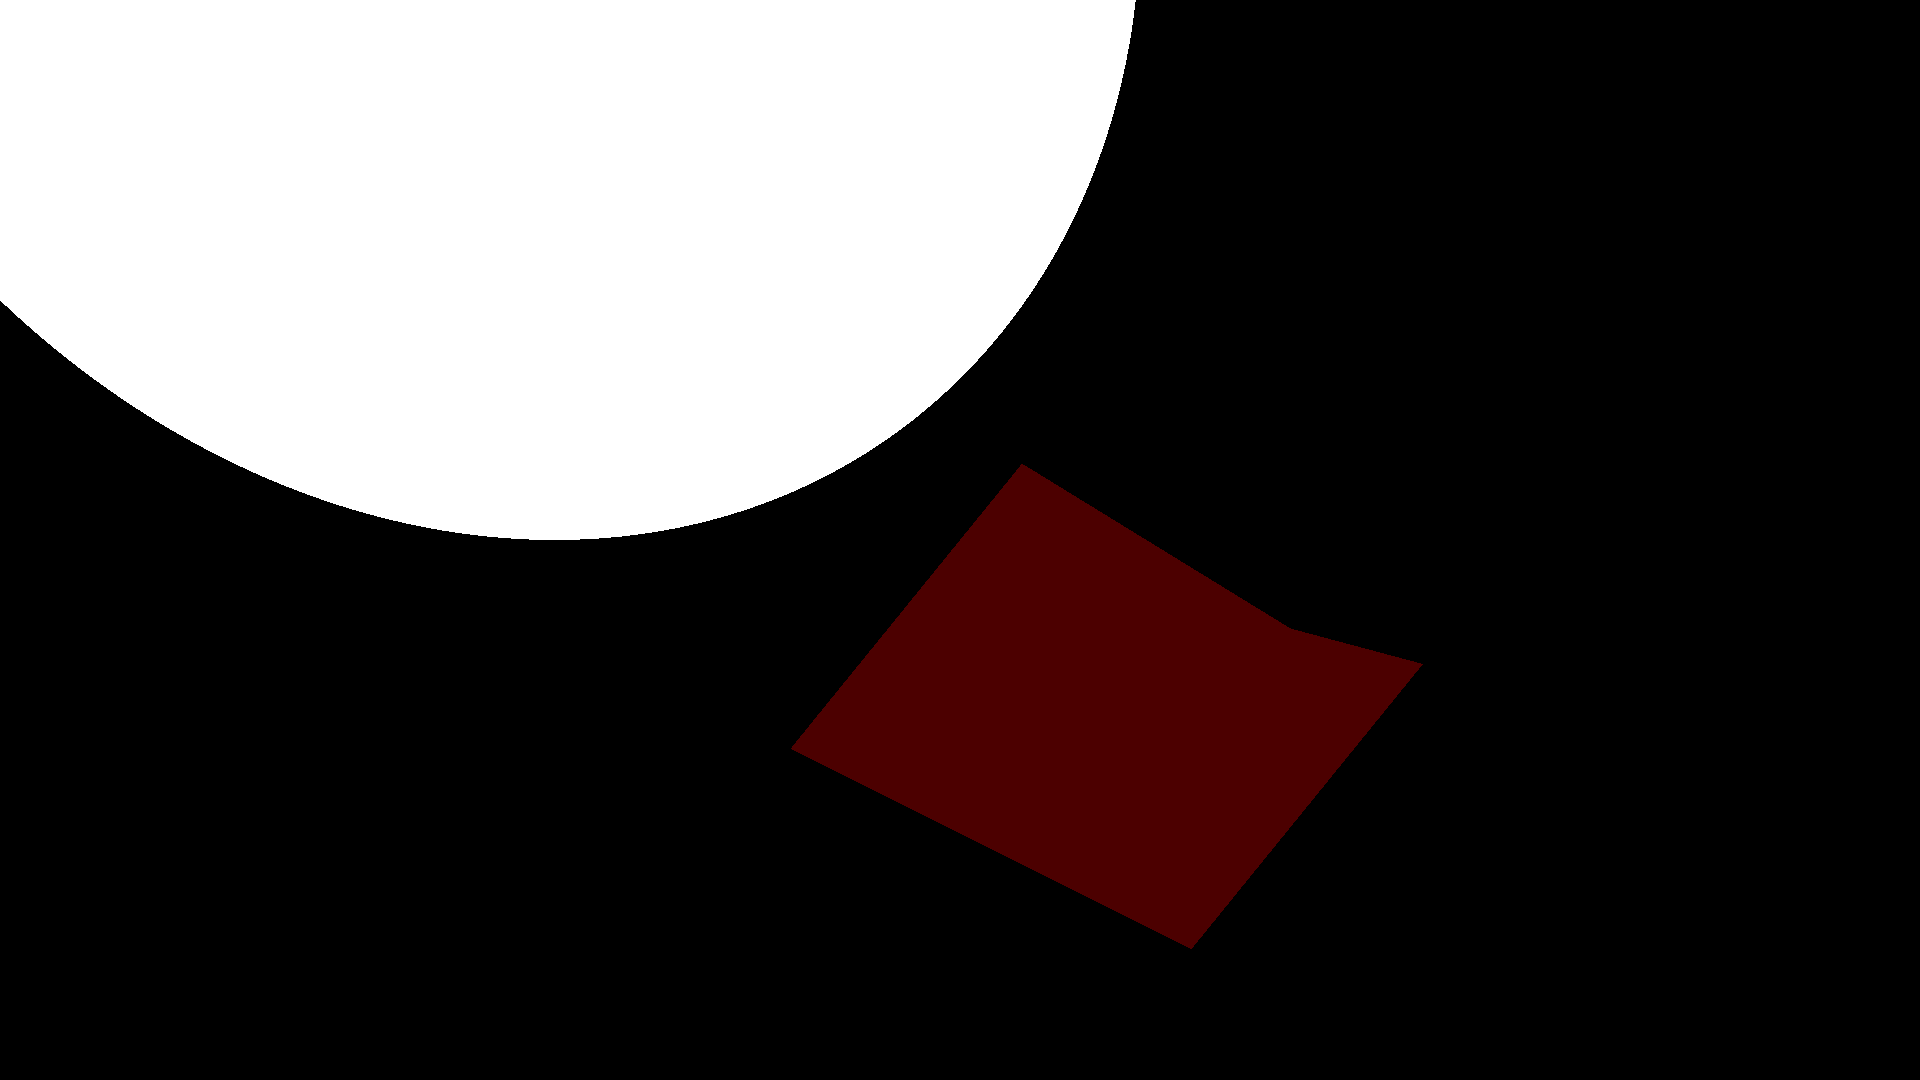
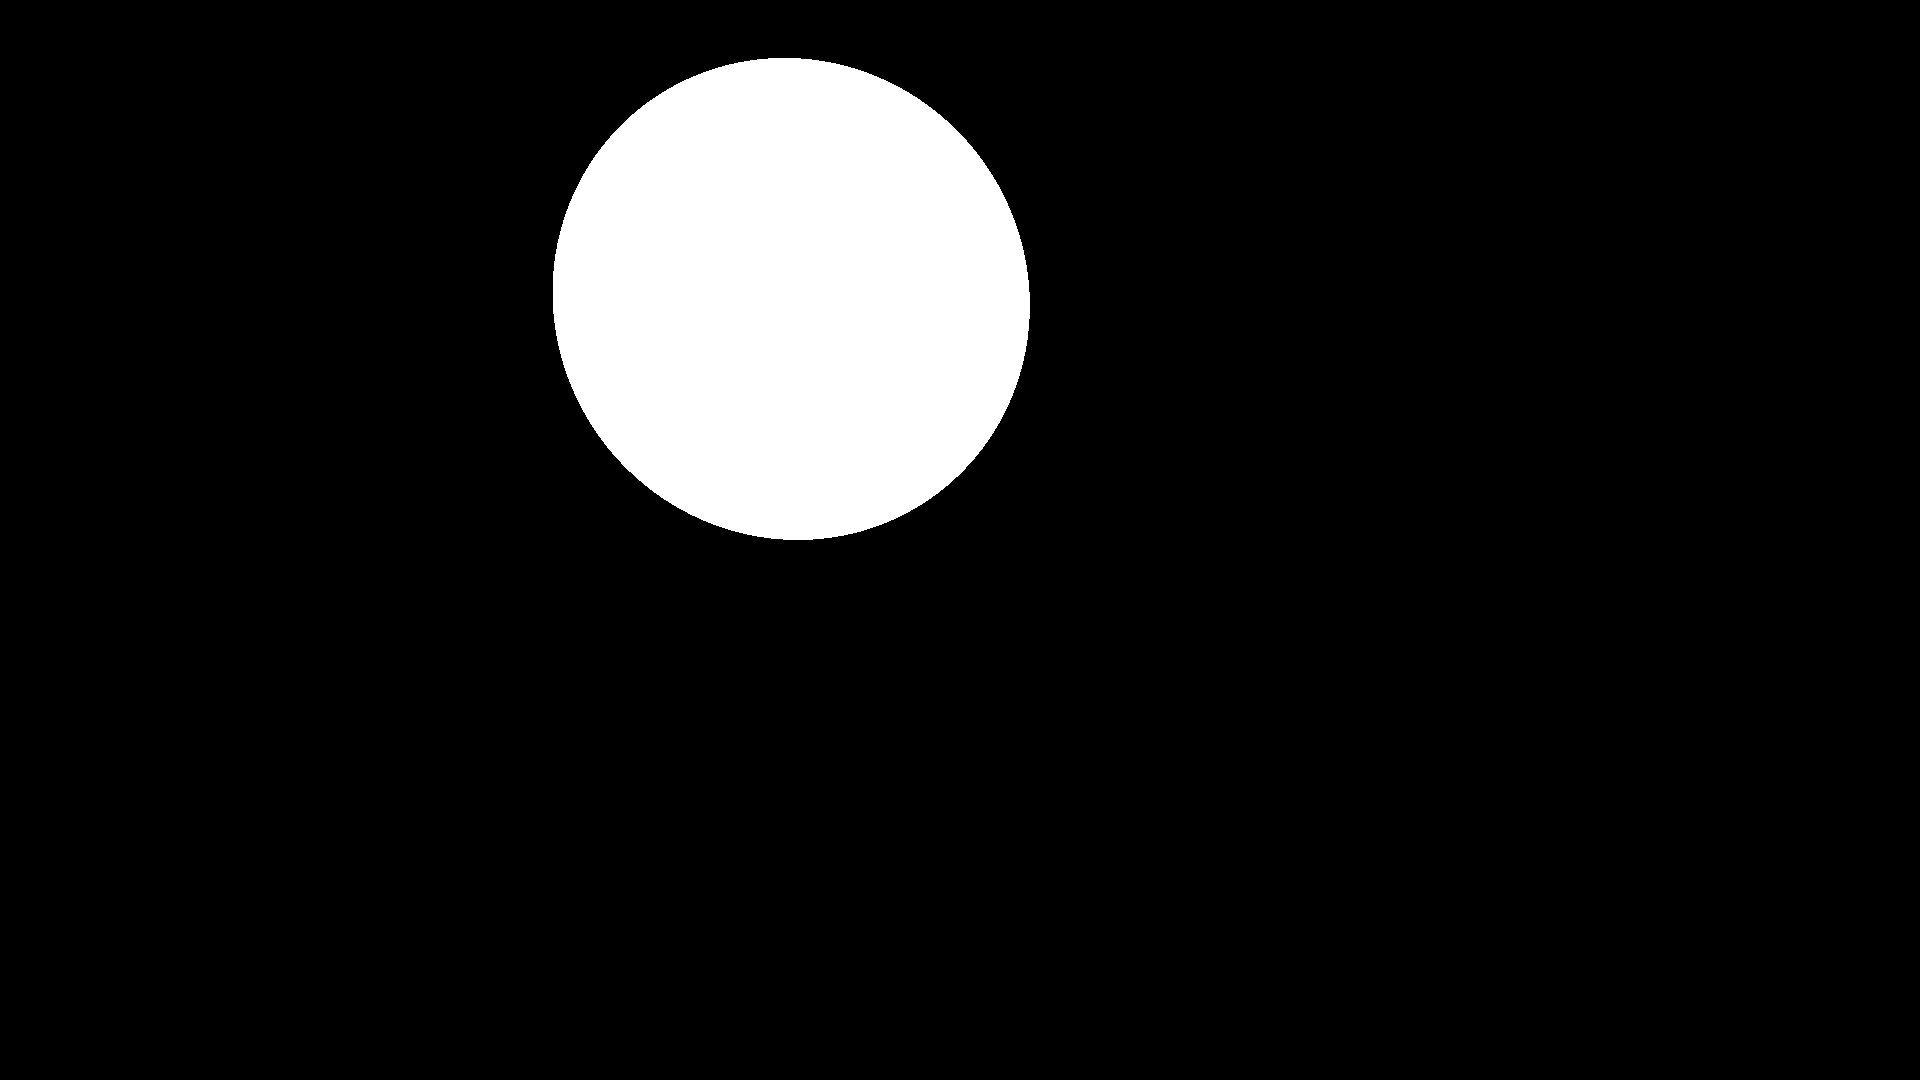
refactor(mesh): update rotate points

Changed region(s): [[0.0, 0.0, 0.75, 0.8861]]

diff --git a/objects/mesh/src/Mesh.cpp b/objects/mesh/src/Mesh.cpp
@@ -15,6 +15,27 @@
 
 using namespace Raytracer::Objects;
 
+void getObjectCenter(const std::vector<Raytracer::Common::Math::Point3D> &vertices, Raytracer::Common::Math::Point3D &center)
+{
+    for (auto &vertex : vertices) {
+        center.x += vertex.x;
+        center.y += vertex.y;
+        center.z += vertex.z;
+    }
+    center.x /= vertices.size();
+    center.y /= vertices.size();
+    center.z /= vertices.size();
+}
+
+void translateObject(std::vector<Raytracer::Common::Math::Point3D> &vertices, const Raytracer::Common::Math::Point3D &center)
+{
+    for (auto &vertex : vertices) {
+        vertex.x -= center.x;
+        vertex.y -= center.y;
+        vertex.z -= center.z;
+    }
+}
+
 Mesh::Mesh(
     const Raytracer::Common::Graphics::Material::Ptr material,
     const Common::Math::Point3D &position,
@@ -22,18 +43,19 @@ Mesh::Mesh(
 {
     auto filename = std::get<std::string>(property);
 
-
     _loadObj(filename);
+    Raytracer::Common::Math::Point3D center;
+    getObjectCenter(_vertices, center);
+    translateObject(_vertices, center);
     for (auto &vertex : _vertices) {
+        vertex.rotateY(45);
+        vertex.rotateX(45);
         vertex.x += _position.x;
         vertex.y += _position.y;
         vertex.z += _position.z;
     }
-
-    for (auto &vertex : _vertices) {
-        vertex.rotateY(30);
-    }
-
+    Raytracer::Common::Math::Point3D invCenter(-center.x, -center.y, -center.z);
+    translateObject(_vertices, invCenter);
     _loadTriangles();
     _loadQuads();
     std::cout << "Loaded mesh: " << filename << std::endl;

diff --git a/common/types/math/Point.cpp b/common/types/math/Point.cpp
@@ -28,25 +28,33 @@ Math::Vector3D Math::Point3D::normalize() const
 void Math::Point3D::rotateX(float angle)
 {
     float rad = angle * M_PI / 180;
+    auto x = this->x;
+    auto y = this->y;
 
-    this->y = this->y * cos(rad) - this->z * sin(rad);
-    this->z = this->y * sin(rad) + this->z * cos(rad);
+    std::cout << rad << std::endl;
+
+    this->y = y * cos(rad) - this->z * sin(rad);
+    this->z = y * sin(rad) + this->z * cos(rad);
 }
 
 void Math::Point3D::rotateY(float angle)
 {
     float rad = angle * M_PI / 180;
+    auto x = this->x;
+    auto z = this->z;
 
-    this->x = this->x * cos(rad) + this->z * sin(rad);
-    this->z = -this->x * sin(rad) + this->z * cos(rad);
+    this->x = x * cos(rad) + z * sin(rad);
+    this->z = -x * sin(rad) + z * cos(rad);
 }
 
 void Math::Point3D::rotateZ(float angle)
 {
     float rad = angle * M_PI / 180;
+    auto x = this->x;
+    auto y = this->y;
 
-    this->x = this->x * cos(rad) - this->y * sin(rad);
-    this->y = this->x * sin(rad) + this->y * cos(rad);
+    this->x = x * cos(rad) - y * sin(rad);
+    this->y = x * sin(rad) + y * cos(rad);
 }
 
 Math::Point3D operator+(const Math::Point3D &point1, const Math::Point3D &point2)

diff --git a/core/app/cli/Handler.cpp b/core/app/cli/Handler.cpp
@@ -60,7 +60,7 @@ int Handler::run() {
             .screen = {
                     .size = { .width = 1920, .height = 1080 }
             },
-            .position = Common::Math::Point3D(0, 0, 30),
+            .position = Common::Math::Point3D(0, -150, 30),
             .direction = Common::Math::Vector3D(0, 0, 0),
             .fov = 50
     };
@@ -77,7 +77,7 @@ int Handler::run() {
 
     auto objectProvider2 = dlloader2.loadSymbol<Common::ObjectProviderGetter>(getterName);
 
-    objects.push_back(objectProvider2()->create(red, Common::Math::Point3D(-10, 60, 30), "cube.obj"));
+    objects.push_back(objectProvider2()->create(red, Common::Math::Point3D(-10, 60, 30), "mug.obj"));
 
     camera.compute(COMPUTE_THREADS, objects);
 

diff --git a/objects/mesh/src/faces/TriFace.cpp b/objects/mesh/src/faces/TriFace.cpp
@@ -72,7 +72,7 @@ bool TriFace::_computeFace(Common::Math::HitInfo &hitInfo, const Common::Math::R
         hitInfo.distance = dst;
         auto vector = ray.direction * dst;
         hitInfo.hitPoint = ray.origin + Point3D(vector.x, vector.y, vector.z);
-        // hitInfo.normal = (_data.normals.n1 * w + _data.normals.n2 * u + _data.normals.n3 * v).normalize();
+        hitInfo.normal = (_data.normals.n1 * w + _data.normals.n2 * u + _data.normals.n3 * v).normalize();
         return true;
     }
     return false;
